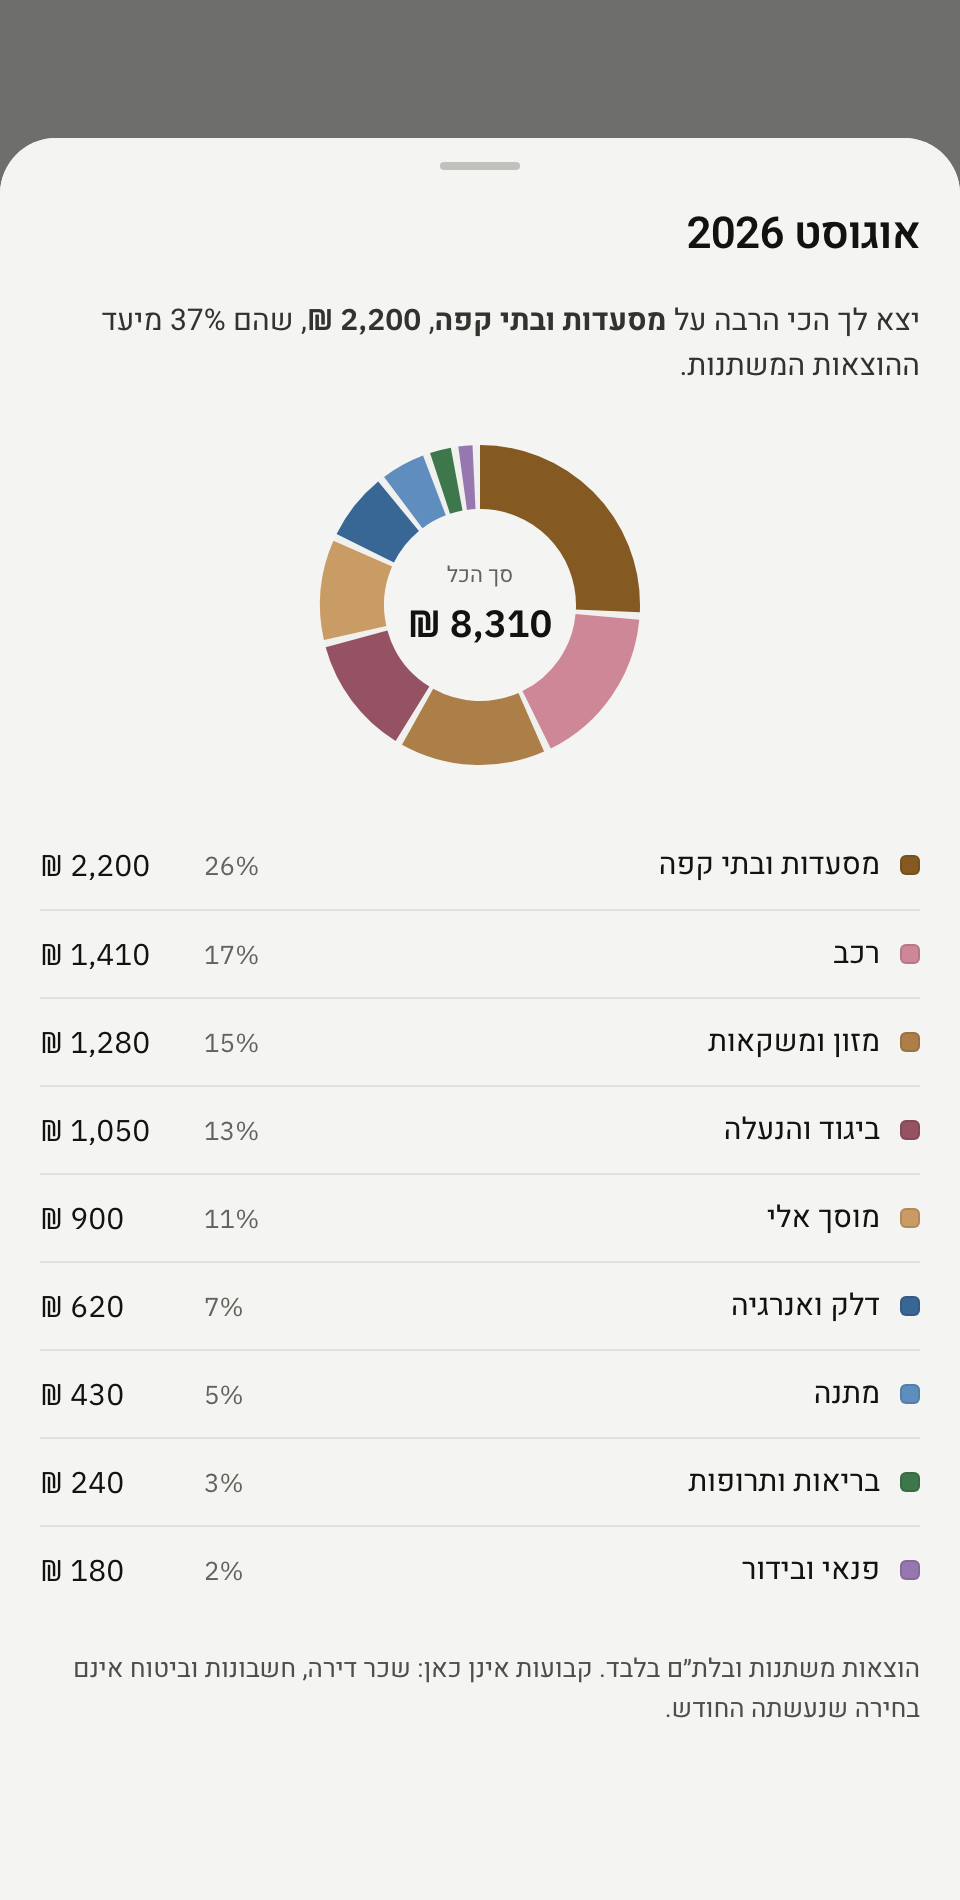
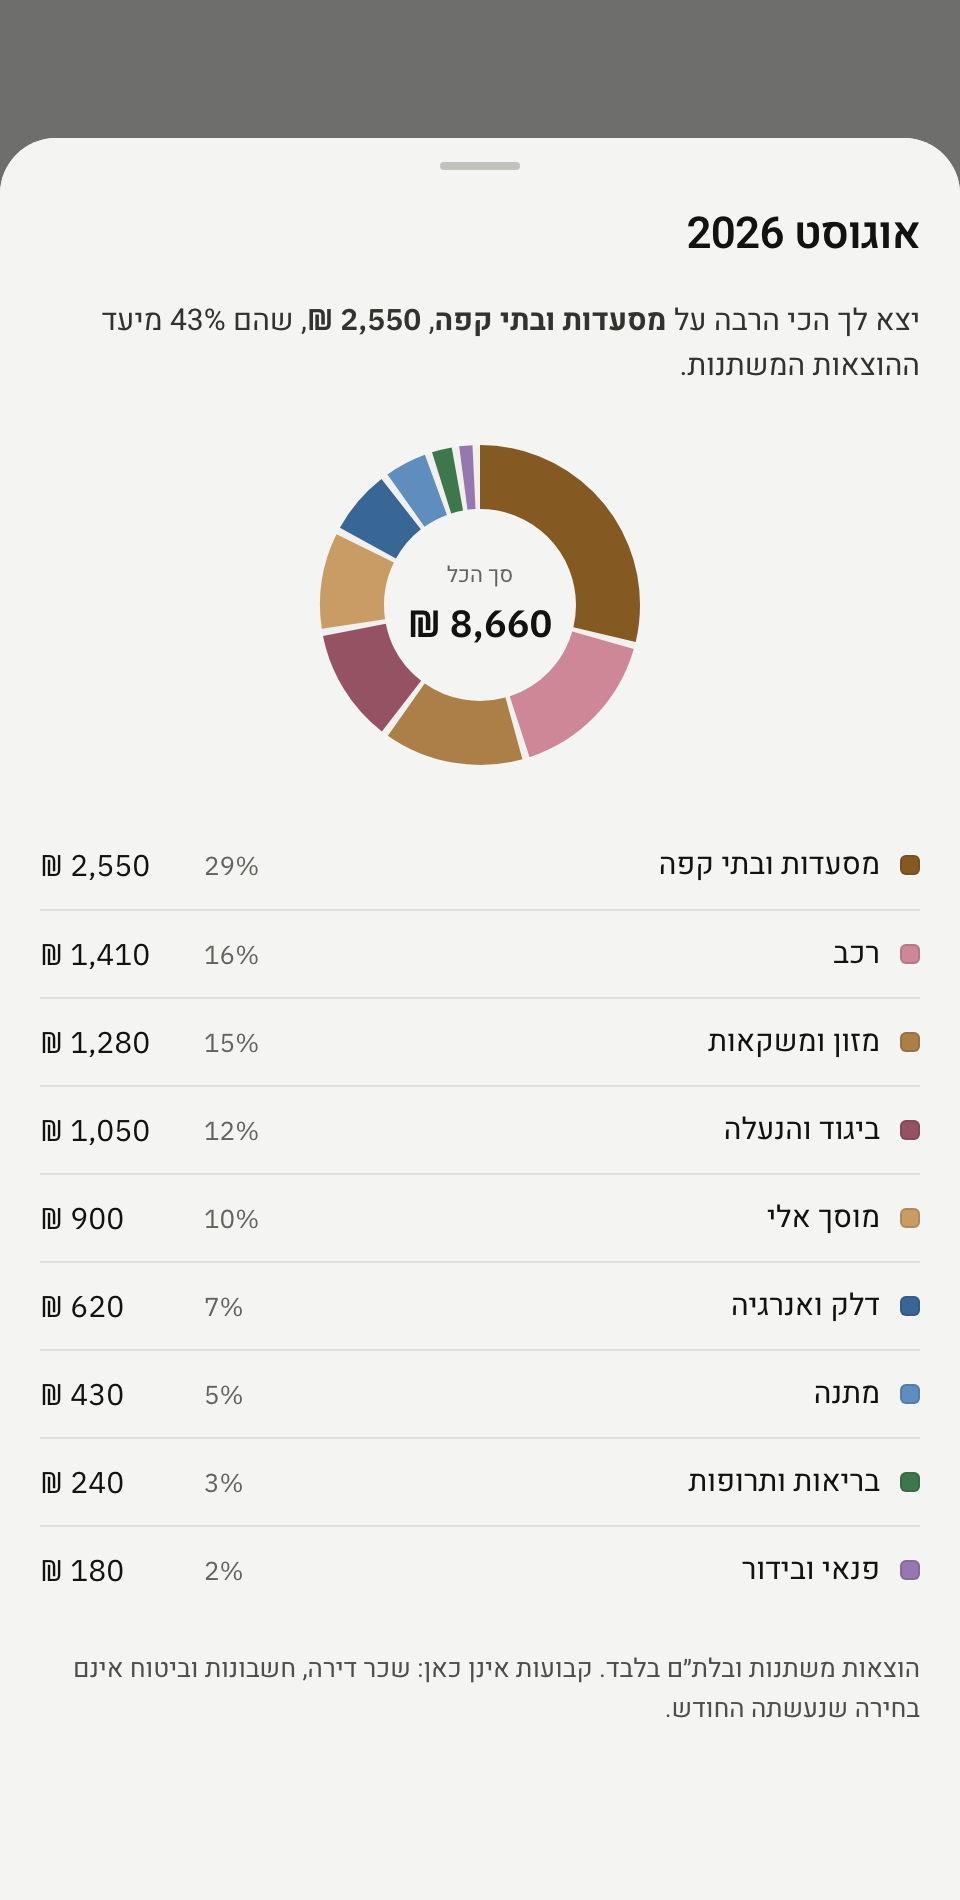
Read a group as a sector before taking it as a name
A group whose rows are named something else fell through as a name and
sat beside the sector it belongs to: October showed "eating out",
"restaurants and cafes" and "coffee out" as three slices of the same
spending. The grouping key is now matched as a sector first, and only
taken as a label when it is not one.

The headline follows the same rule. It counted the row name alone, so
it would have quoted 2,200 while the ring beside it drew 2,550.

Names also survive a double space, a non-breaking space and the bidi
marks a phone keyboard inserts, none of which should decide whether a
row is recognised.

diff --git a/tests/breakdown.test.js b/tests/breakdown.test.js
@@ -59,6 +59,19 @@ describe('monthBreakdown', () => {
       .toEqual(['משהו שלא ברשימה', 'מסעדות ובתי קפה'])
   })
 
+  it('מאחד קבוצה, ענף ושם שמצביעים על אותו דבר', () => {
+    // "קפה בחוץ" היא קבוצה שהשורות בתוכה נקראות אחרת, וכשהיא נלקחה
+    // כשם היא ישבה כפלח נפרד ליד "מסעדות ובתי קפה" מאותן הוצאות
+    const { slices } = monthBreakdown([
+      entry({ name: 'ביס', groupKey: 'קפה בחוץ', actualAmount: 350 }),
+      entry({ name: 'משהו', groupKey: 'אוכל בחוץ', actualAmount: 1421 }),
+      entry({ name: 'ארומה', actualAmount: 380 }),
+    ])
+    expect(slices).toEqual([
+      { sector: 'מסעדות ובתי קפה', amount: 2151, share: 1 },
+    ])
+  })
+
   it('מעדיף את מפתח הקיבוץ על השם, כמו מסך החודש', () => {
     const { slices } = monthBreakdown([
       entry({ name: 'קפה בחוץ ביום שני', groupKey: 'קפה בחוץ', actualAmount: 30 }),
@@ -125,6 +138,15 @@ describe('headlineSector', () => {
     expect(headlineSector(rows, base).sector).toBe('ביגוד והנעלה')
   })
 
+  it('סופר את הקבוצה כמו הטבעת, ולא מצטט מספר אחר ממנה', () => {
+    const rows = [
+      entry({ name: 'ארומה', actualAmount: 1900 }),
+      entry({ name: 'ביס', groupKey: 'קפה בחוץ', actualAmount: 350 }),
+    ]
+    const { slices } = monthBreakdown(rows)
+    expect(headlineSector(rows, base).amount).toBe(slices[0].amount)
+  })
+
   it('לעולם לא מכריז על "אחר", גם כשהוא רוב החודש', () => {
     const rows = [
       entry({ name: 'מתנה לאיתן', actualAmount: 4000 }),
@@ -188,6 +210,13 @@ describe('זיהוי ענף משם שהוקלד ביד', () => {
   it('"אוכל" לבדו נשאר לא מזוהה, כי הוא גם הסופר', () => {
     expect(monthBreakdown([entry({ name: 'אוכל', actualAmount: 100 })])
       .slices[0].sector).toBe('אוכל')
+  })
+
+  it('רווח כפול או רווח קשיח לא מפילים זיהוי', () => {
+    for (const name of ['אוכל  בחוץ', 'אוכל\u00a0בחוץ', ' אוכל בחוץ ']) {
+      expect(monthBreakdown([entry({ name, actualAmount: 100 })]).slices[0].sector,
+        JSON.stringify(name)).toBe('מסעדות ובתי קפה')
+    }
   })
 
   it('לא שובר זיהוי של בתי עסק אמיתיים', () => {

diff --git a/src/lib/breakdown.js b/src/lib/breakdown.js
@@ -46,7 +46,14 @@ export const REST = 'שאר'
  * ולאסוף אותה ל"אחר" זה לזרוק מידע שכבר קיים.
  */
 const labelOf = (entry) =>
-  merchantSector(entry.name) || entry.groupKey || entry.name || OTHER
+  merchantSector(entry.name)
+  // גם מפתח הקיבוץ נבדק כענף ולא רק נלקח כשם. "קפה בחוץ" הוא קבוצה
+  // שהשורות בתוכה נקראות אחרת, ובלי הבדיקה הזו הקבוצה נפלה כשם
+  // ליד פלח "מסעדות ובתי קפה" שנוצר מאותן הוצאות בדיוק
+  || merchantSector(entry.groupKey)
+  || entry.groupKey
+  || entry.name
+  || OTHER
 
 /** המילה הראשונה, או ריק כשאין בה מספיק כדי לאחד לפיה. */
 const firstWord = (label) => {
@@ -92,7 +99,8 @@ export function monthBreakdown(entries = []) {
   for (const entry of chosenSpending(entries)) {
     const label = labelOf(entry)
     const amount = entry.actualAmount || 0
-    const row = totals.get(label) || { amount: 0, named: Boolean(merchantSector(entry.name)) }
+    const named = Boolean(merchantSector(entry.name) || merchantSector(entry.groupKey))
+    const row = totals.get(label) || { amount: 0, named }
     row.amount += amount
     totals.set(label, row)
     total += amount
@@ -149,7 +157,8 @@ export function headlineSector(entries = [], baseAmount = 0) {
   const totals = new Map()
   for (const entry of chosenSpending(entries)) {
     if (entry.category !== 'leisure') continue
-    const sector = merchantSector(entry.name)
+    // אותו זיהוי שהטבעת משתמשת בו, אחרת המשפט מצטט מספר אחר ממנה
+    const sector = merchantSector(entry.name) || merchantSector(entry.groupKey)
     if (!sector) continue
     totals.set(sector, (totals.get(sector) || 0) + (entry.actualAmount || 0))
   }

diff --git a/src/lib/merchants.js b/src/lib/merchants.js
@@ -11,18 +11,27 @@
  */
 
 /**
+ * רווח כפול, רווח קשיח וסימני כיווניות הם מה שבאמת מגיע מהמקלדת
+ * בטלפון, והם אינם אמורים להכריע אם שורה מזוהה או לא.
+ */
+const normalize = (value) => String(value || '')
+  .replace(/[\u200e\u200f\u202a-\u202e\u2066-\u2069]/g, '')
+  .replace(/\s+/g, ' ')
+  .trim()
+
+/**
  * שבר קצר נבדק כמילה שלמה ולא כתת מחרוזת: "פז" בתוך מילה אחרת אינו
  * תחנת דלק, ובעברית אין גבולות מילה ב-\b של ביטוי רגולרי.
  */
 const hasWord = (text, word) => {
   const lower = word.toLowerCase()
-  return text
+  return normalize(text)
     .split(/[\s*,.\-/()"']+/)
     .some((part) => part.toLowerCase() === lower)
 }
 
 const matches = (name, rule) => {
-  const text = String(name || '').toLowerCase()
+  const text = normalize(name).toLowerCase()
   if (!text) return false
   return (rule.match || []).some((word) => text.includes(word.toLowerCase()))
     || (rule.words || []).some((word) => hasWord(String(name), word))
@@ -140,7 +149,7 @@ export const SECTOR_RULES = [
  * חנות, ו"תחבורה" שנופל ל"אחר" מפני שאינו אגד הוא פשוט באג.
  */
 export const merchantSector = (name) => {
-  const text = String(name || '').toLowerCase()
+  const text = normalize(name).toLowerCase()
   if (!text) return ''
   return SECTOR_RULES.find((rule) =>
     text.includes(rule.sector.toLowerCase()) || matches(name, rule))?.sector || ''

diff --git a/src/dev/shots.jsx b/src/dev/shots.jsx
@@ -407,6 +407,8 @@ const SCREENS = {
         entries={[
           { category: 'leisure', name: 'מסעדות ובילויים', actualAmount: 1820 },
           { category: 'leisure', name: 'ארומה', actualAmount: 380 },
+          // קבוצה שהשורה בתוכה נקראת אחרת: אמורה להתאחד עם המסעדות
+          { category: 'leisure', name: 'ביס', groupKey: 'קפה בחוץ', actualAmount: 350 },
           { category: 'leisure', name: 'זארה', actualAmount: 740 },
           { category: 'leisure', name: 'קסטרו', actualAmount: 310 },
           { category: 'leisure', name: 'שופרסל', actualAmount: 1280 },

diff --git a/README.md b/README.md
@@ -234,7 +234,9 @@ not Egged was simply a bug.
 
 A name with no sector is **not swept into "other"**. It becomes its own slice,
 under the grouping key the month screen already shows it by, so the ring and
-the month agree. Names sharing a first word merge into it, which turns two
+the month agree. The grouping key is read as a sector first and only then
+taken as a name, otherwise a group whose rows are named something else sat
+beside the very sector it belongs to. Names sharing a first word merge into it, which turns two
 "gift for X" rows into one "gift" slice: only the first word, and only when two
 or more share it, because any-shared-word would have merged "eating out" with
 "coffee out". The ring draws the eight largest and collapses what is left into
